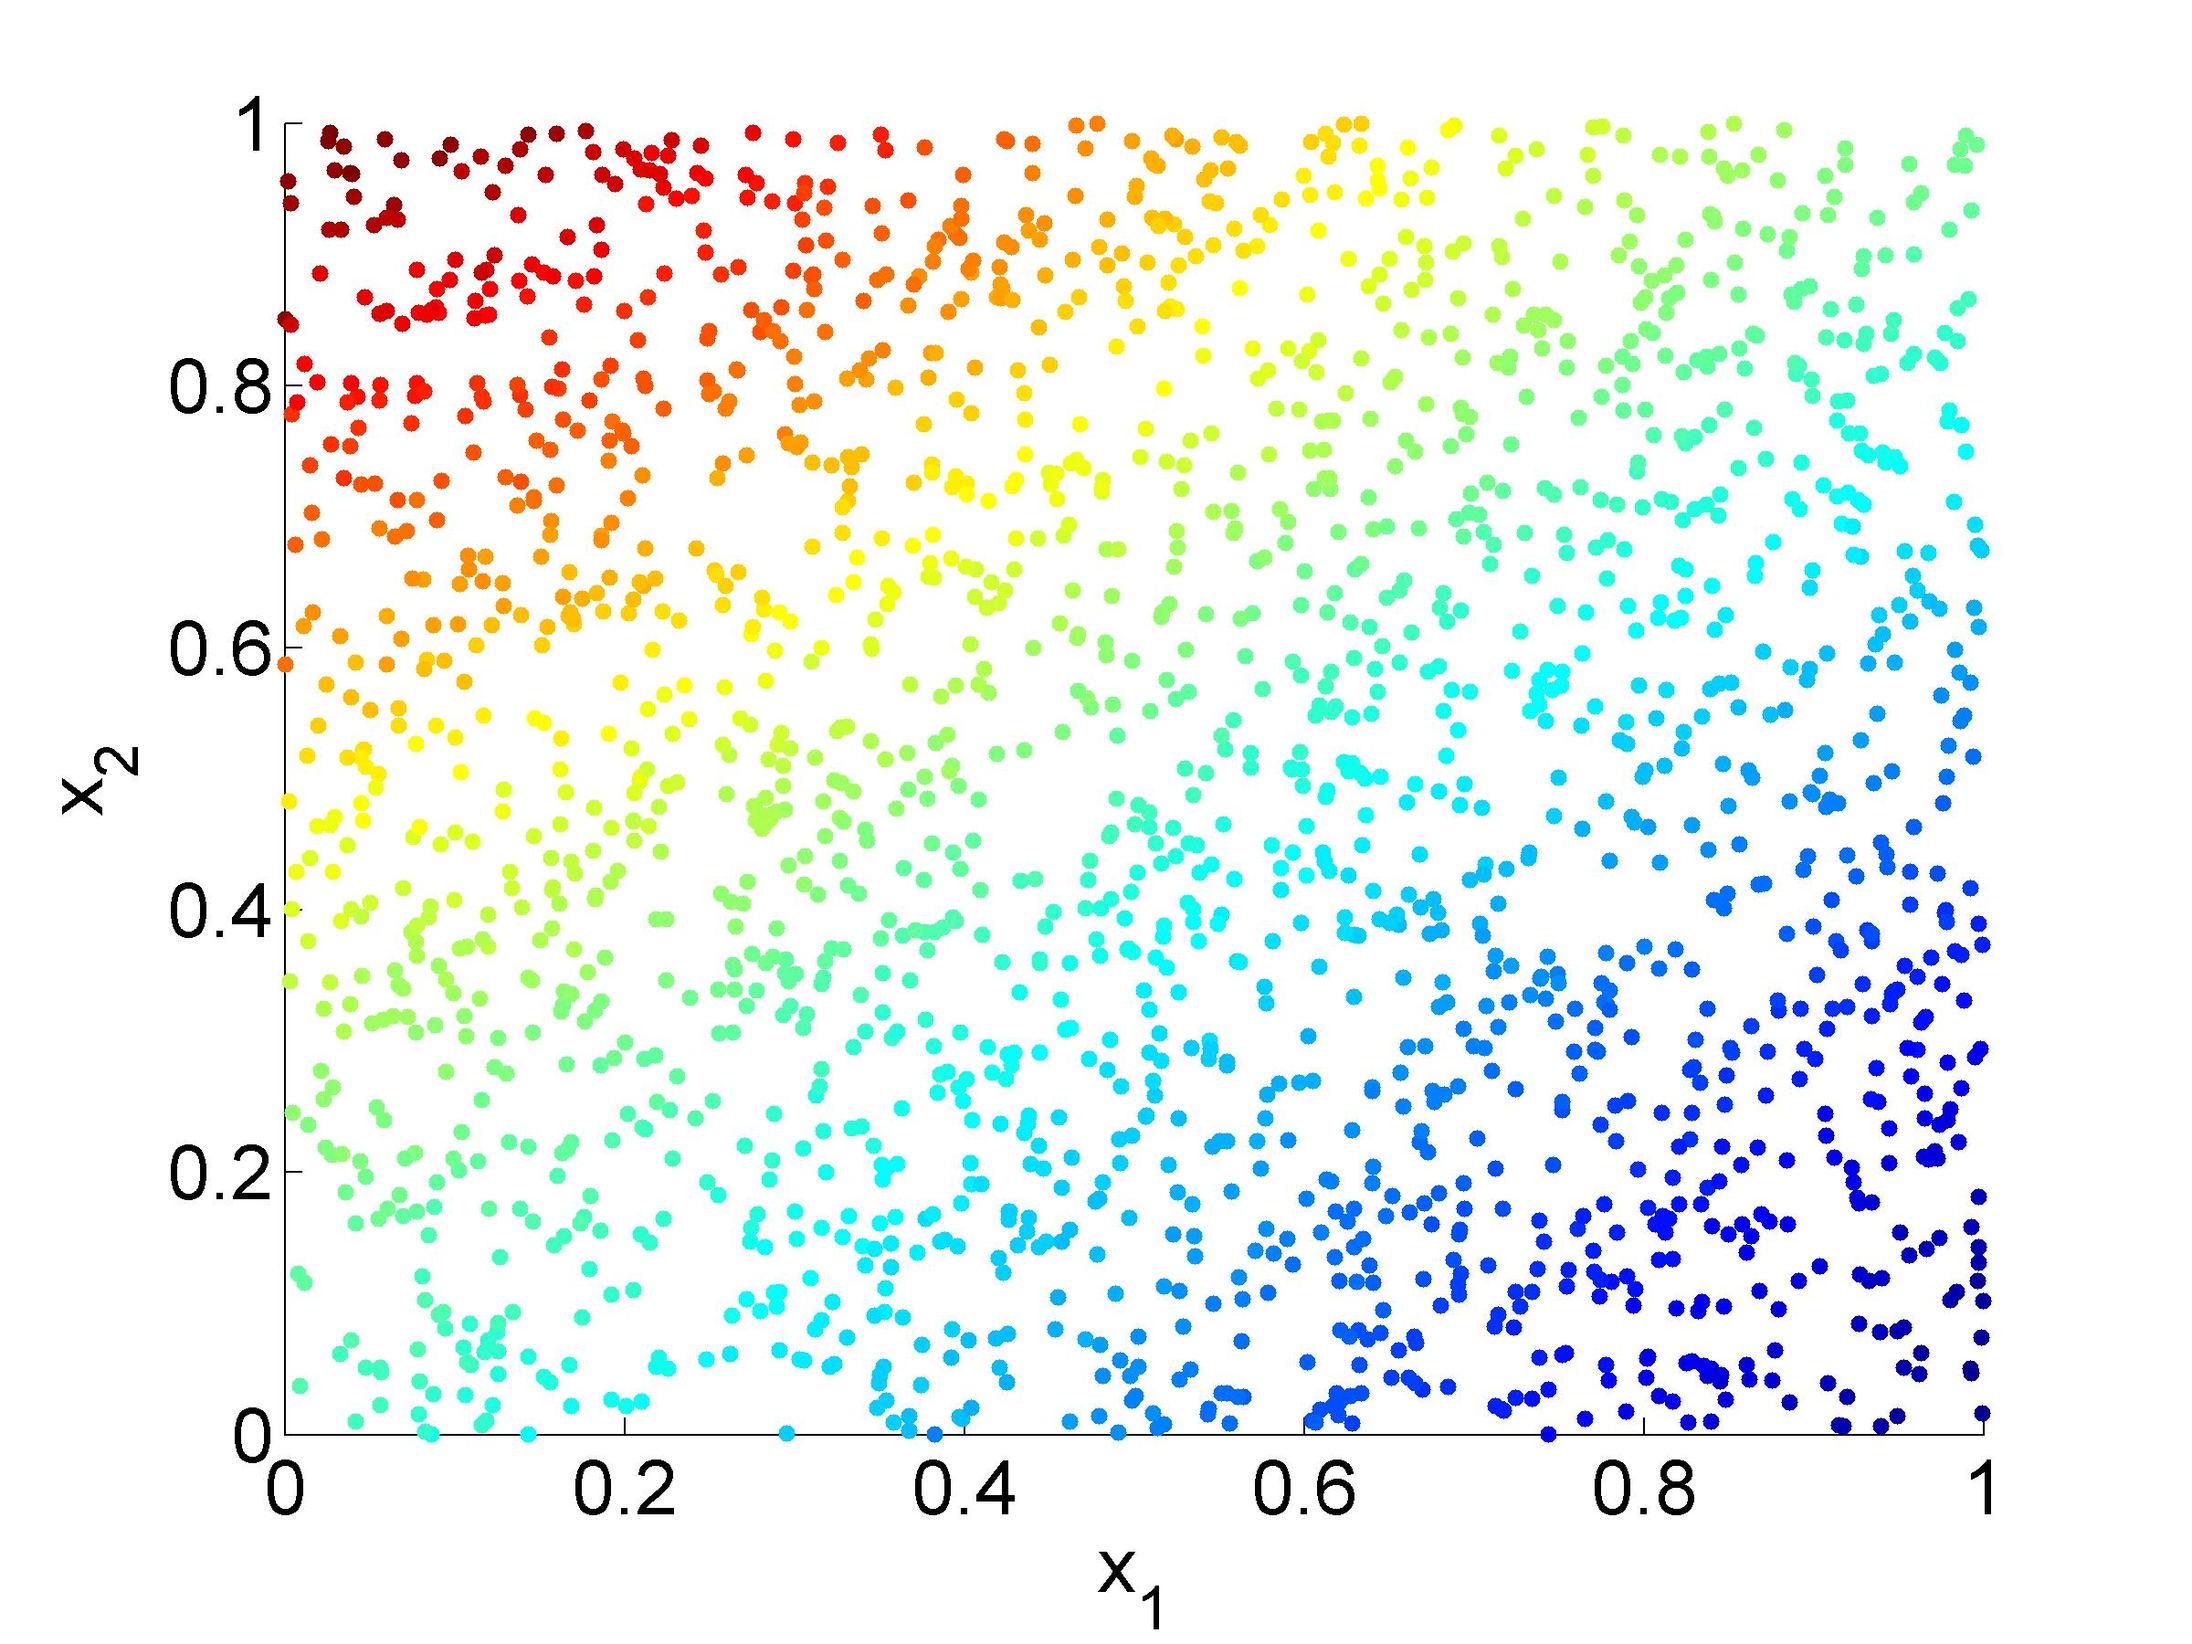
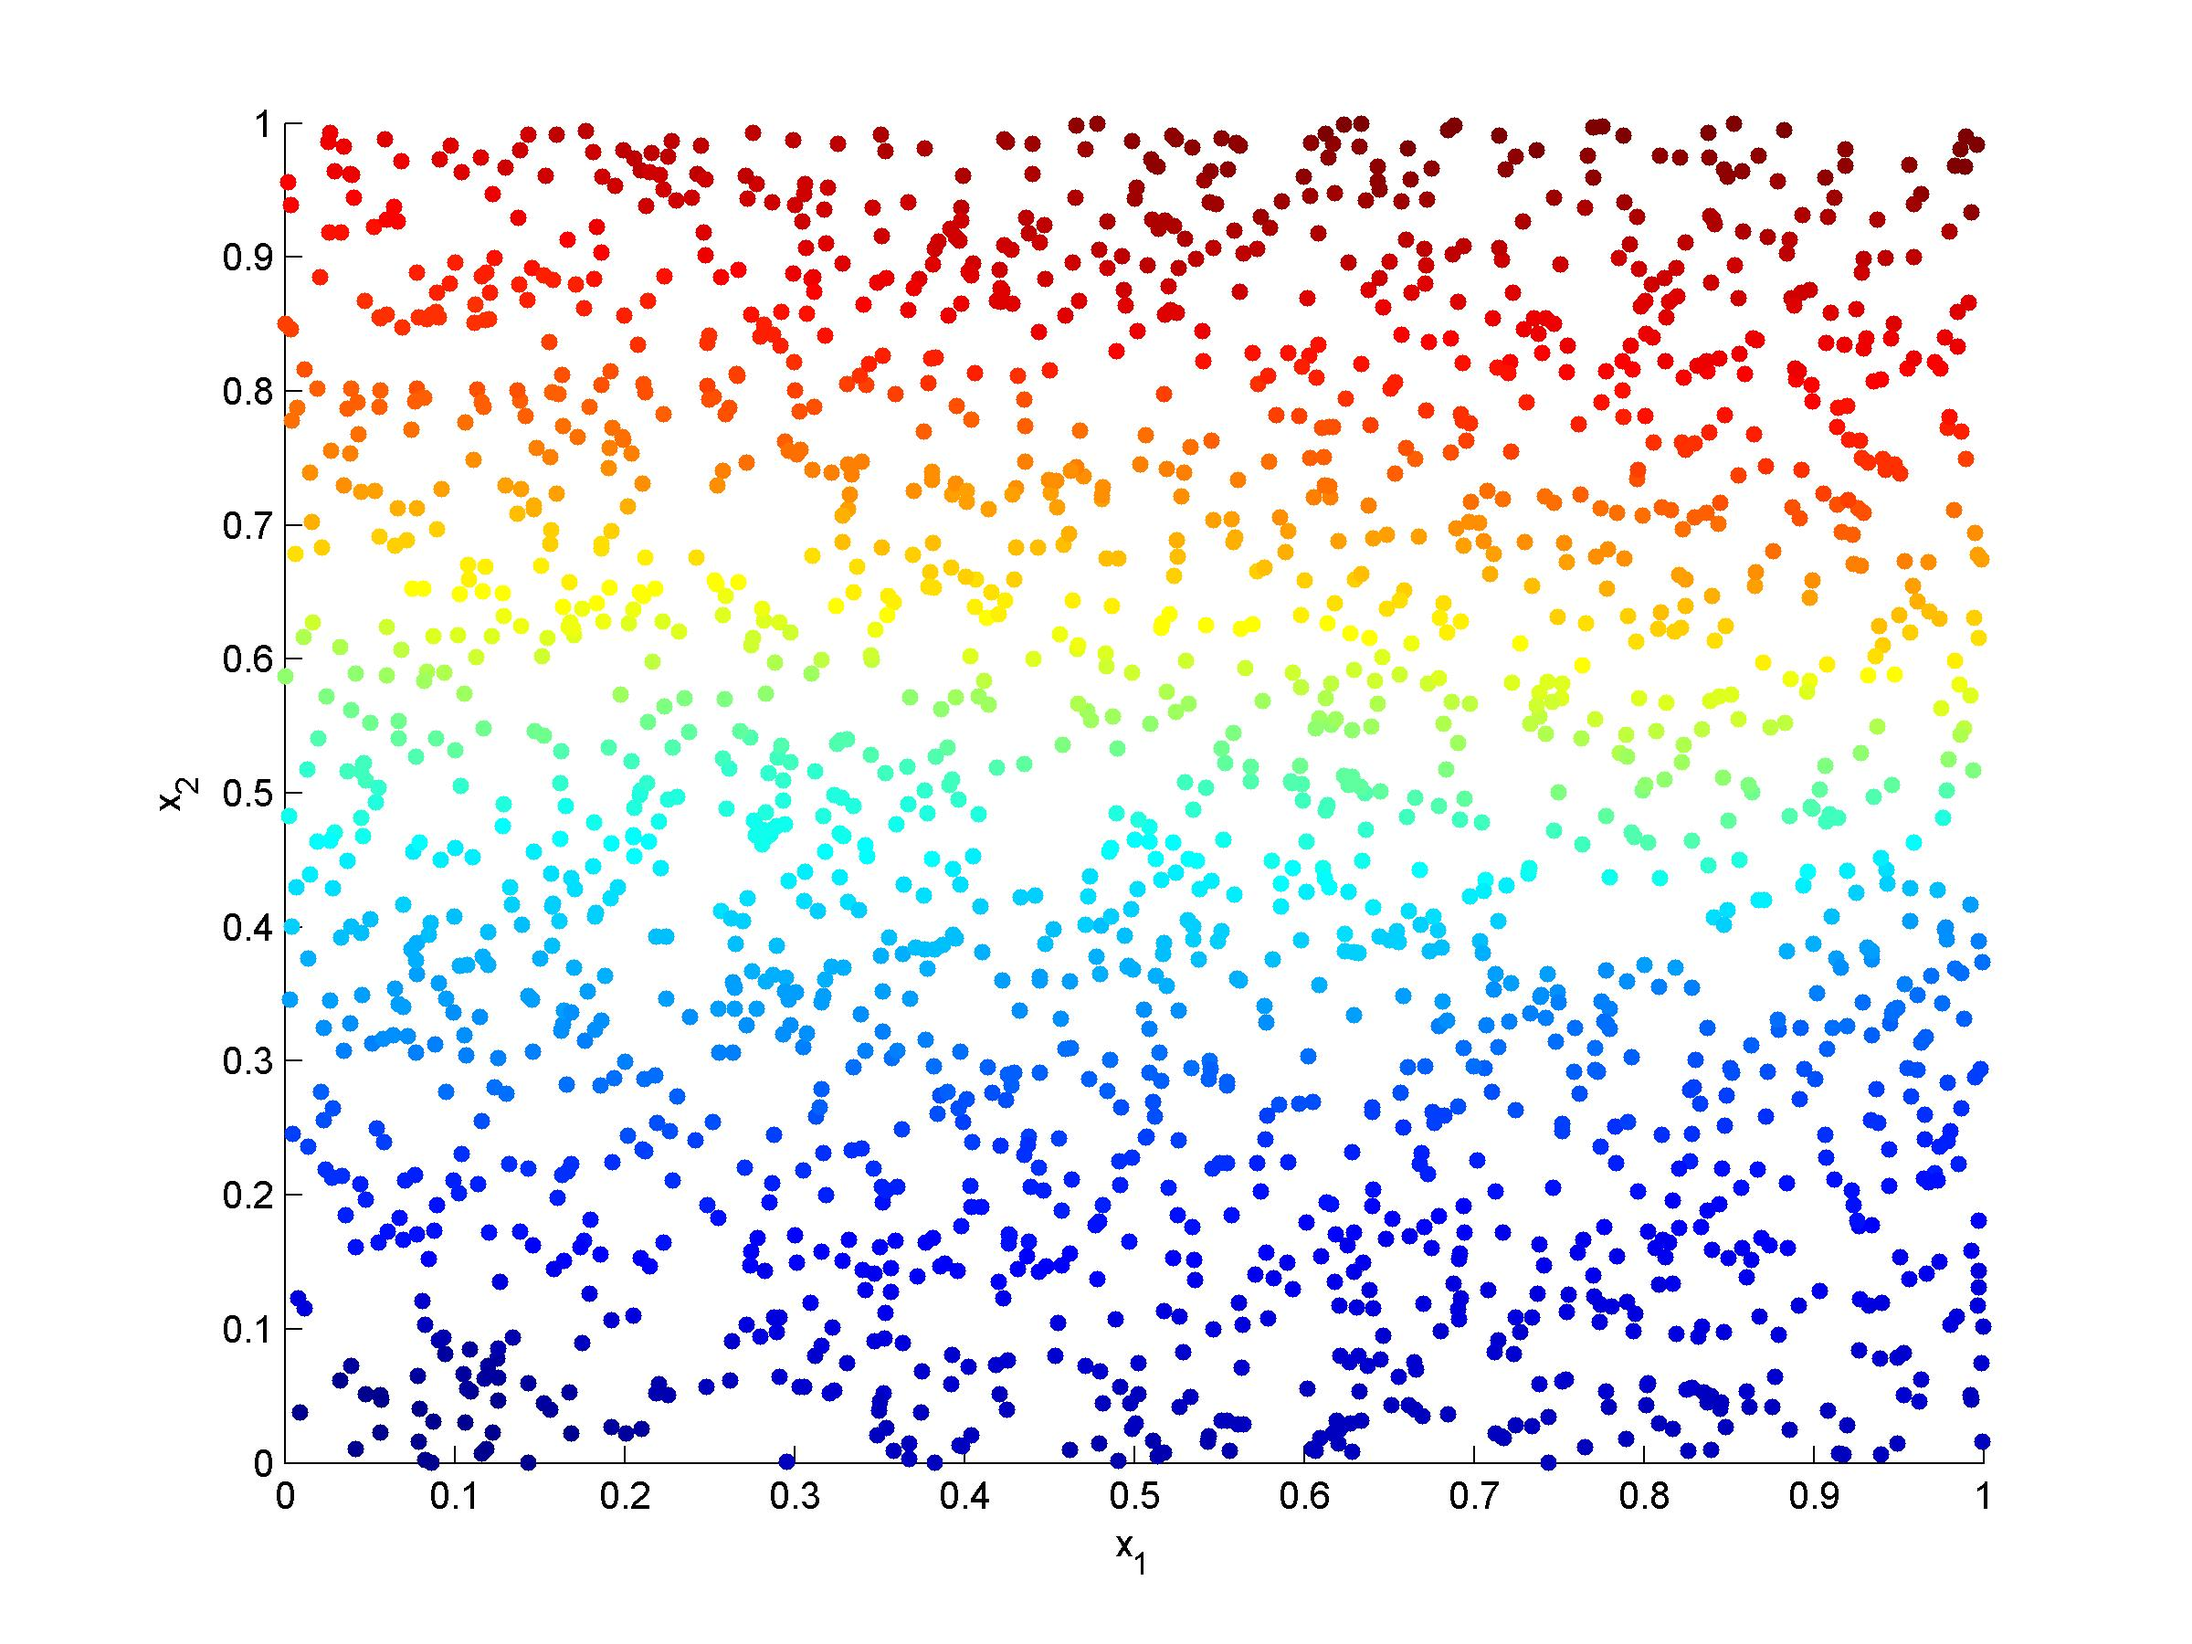
added Ronen edits to writeup

diff --git a/reducible_SDE/notes1.tex b/reducible_SDE/notes1.tex
@@ -8,7 +8,14 @@
 \begin{document}
 
 
-Goal: Want to examine the effects of the scale of the noise on NIV
+Goals: 
+\begin{itemize}
+\item Want to examine the effects of the scale of the noise on NIV
+\item Will look at systems with both underlying noise in the ``intrinsic'' variables, and added noise to the variables in the transformed/ ``ambient'' space
+\item The magnitude of the noise in the ambient space will determine the embedding we compute
+\item We expect to obtain DMAPS variables if the noise in the ambient space is large (we will only ``see'' the ambient space noise, and not the , and NIV if the noise in the ambient space is small
+\end{itemize}
+
 
 Assume we have the following underlying dynamical system (two--dimensional Brownian motion)
 \begin{eqnarray}
@@ -38,9 +45,10 @@ The results of doing DMAPS with the data $y_1, y_2$ are shown in in Figure \ref{
 Note that we do not recover the ``correct'' parameterization of the underlying variables $x_1, x_2$.
 
 \begin{figure}[htb]
-\includegraphics[width=0.5\textwidth]{xdata_colored_DMAPS1}
-\includegraphics[width=0.5\textwidth]{xdata_colored_DMAPS2}
-\caption{Data in ``true'' space ($x_1, x_2$), colored by the first (left) and second (right) nontrivial DMAPS component. The DMAPS embedding is computed from the data in the ``ambient'' space ($y_1, y_2$). Note that the parameterizationa we obtain are not the eigenfunctions that we expect for points sampled from the unit square.}
+\includegraphics[width=0.3\textwidth]{xdata_colored_DMAPS1}
+\includegraphics[width=0.3\textwidth]{xdata_colored_DMAPS2}
+\includegraphics[width=0.3\textwidth]{embedding_dmaps}
+\caption{Data in ``true'' space ($x_1, x_2$), colored by the first (left) and second (center) nontrivial DMAPS component. The DMAPS embedding is computed from the data in the ``ambient'' space ($y_1, y_2$). Note that the parameterizationa we obtain are not the eigenfunctions that we expect for points sampled from the unit square. (Right) Data plotted in first two (nontrivial) DMAPS variables.}
 \label{fig:xdata_dmaps}
 \end{figure}
 
@@ -51,9 +59,10 @@ we obtain the results in Figure \ref{fig:xdata_NIV}.
 Note that we now recover the ``correct'' variables.
 
 \begin{figure}[htb]
-\includegraphics[width=0.5\textwidth]{xdata_colored_NIV1}
-\includegraphics[width=0.5\textwidth]{xdata_colored_NIV2}
-\caption{Data in ``true'' space ($x_1, x_2$), colored by the first (left) and second (right) nontrivial NIV. The NIV embedding is computed from the data in the ambient space ($y_1, y_2$), with clouds around the points have standard deviation $1e-3$. Note that the parameterizations we obtain are the eigenfunctions that we expect for points sampled from the unit square.}
+\includegraphics[width=0.3\textwidth]{xdata_colored_NIV1}
+\includegraphics[width=0.3\textwidth]{xdata_colored_NIV2}
+\includegraphics[width=0.3\textwidth]{embedding_NIV}
+\caption{Data in ``true'' space ($x_1, x_2$), colored by the first (left) and second (center) nontrivial NIV. The NIV embedding is computed from the data in the ambient space ($y_1, y_2$), with time window $\Delta t = 0.01$. Note that the parameterizations we obtain are the eigenfunctions that we expect for points sampled from the unit square. (Right) Data plotted in first two (nontrivial) NIV.}
 \label{fig:xdata_NIV}
 \end{figure}
 
@@ -68,20 +77,30 @@ z_3 & = & \xi_3
 where $\xi_1, \xi_2, \xi_3 \sim \mathcal{N}(0, \sigma^2)$
 
 If $\sigma = 0.01$ (so the added noise is much smaller than the noise in the original clouds), we obtain a parameterization shown in Figure \ref{fig:xdata_NIV_noise1} using NIV.
+%
+When we do NIV, the ``ellipses'' we see are a combination of the original noises in the intrinsic variables and the noise in the ambient space.
+%
+Because the noise in the ambient space is significantly smaller than the noise in the original intrinsic variable space, we can still ``see'' the directions of the intrinsic variable noises in the ellipses, and therefore uncover the intrinsic variables.
 
 \begin{figure}[htb]
-\includegraphics[width=0.5\textwidth]{xdata_noise1_colored_NIV1}
-\includegraphics[width=0.5\textwidth]{xdata_noise1_colored_NIV2}
-\caption{Data in ``true'' space ($x_1, x_2$), colored by the first (left) and second (right) nontrivial NIV. The NIV embedding is computed from the data in the ambient space with added noise ($z_1, z_2$, with $\sigma = 0.01$). Note that the parameterizations we obtain are the eigenfunctions that we expect for points sampled from the unit square.}
+\includegraphics[width=0.3\textwidth]{xdata_noise1_colored_NIV1}
+\includegraphics[width=0.3\textwidth]{xdata_noise1_colored_NIV2}
+\includegraphics[width=0.3\textwidth]{embedding_noise1}
+\caption{Data in ``true'' space ($x_1, x_2$), colored by the first (left) and second (center) nontrivial NIV. The NIV embedding is computed from the data in the ambient space with added noise ($z_1, z_2$, with $\sigma = 0.01$). Note that the parameterizations we obtain are the eigenfunctions that we expect for points sampled from the unit square. (right) Data plotted in first two (nontrivial) NIV. We (effectively) recover the unit square, i.e., the domain of the intrinsic variables. }
 \label{fig:xdata_NIV_noise1}
 \end{figure}
 
 If $\sigma = 100$ (so the added noise is much larger than the noise in the original clouds), we obtain a parameterization shown in Figure \ref{fig:xdata_NIV_noise2} using NIV.
+%
+Now, the ellipses are a combination of the intrinsic varibale noise, and the ambient space noise, but the ambient space noise is {\em much} larger. 
+%
+Therefore, NIV only collapses the ambient space noise (not the intrinsic variable noise), and so we get something like the DMAPS coordinates, rather than the NIV. 
 
 \begin{figure}[htb]
-\includegraphics[width=0.5\textwidth]{xdata_noise2_colored_NIV1}
-\includegraphics[width=0.5\textwidth]{xdata_noise2_colored_NIV2}
-\caption{Data in ``true'' space ($x_1, x_2$), colored by the first (left) and second (right) nontrivial NIV. The NIV embedding is computed from the data in the ambient space with added noise ($z_1, z_2$, with $\sigma = 100$). Note that the parameterizations we obtain are not the eigenfunctions that we expect for points sampled from the unit square, but are now similar to the parameterizations obtained from DMAPS shown in Figure \ref{fig:xdata_dmaps}.}
+\includegraphics[width=0.3\textwidth]{xdata_noise2_colored_NIV1}
+\includegraphics[width=0.3\textwidth]{xdata_noise2_colored_NIV2}
+\includegraphics[width=0.3\textwidth]{embedding_noise2}
+\caption{Data in ``true'' space ($x_1, x_2$), colored by the first (left) and second (center) nontrivial NIV. The NIV embedding is computed from the data in the ambient space with added noise ($z_1, z_2$, with $\sigma = 100$). Note that the parameterizations we obtain are not the eigenfunctions that we expect for points sampled from the unit square, but are now similar to the parameterizations obtained from DMAPS shown in Figure \ref{fig:xdata_dmaps}. (right) Data plotted in first two (nontrivial) NIV. We do {\em not} recover the unit square.}
 \label{fig:xdata_NIV_noise2}
 \end{figure}
 

diff --git a/reducible_SDE/test_Amit_NLICA_example.m b/reducible_SDE/test_Amit_NLICA_example.m
@@ -21,7 +21,7 @@ dim = 2;
 Nc = 200;
 
 % dt for clouds
-dt1 = 0.001;
+dt1 = 0.01;
 
 %% do simulations
 
@@ -46,7 +46,7 @@ print('ydata', fmt, res)
 
 %% calculate clouds
 
-xclouds = dt1 * randn(Nc, dim, N);
+xclouds = sqrt(dt1) * randn(Nc, dim, N);
 for i=1:N
     xclouds(:,:,i) = repmat(x(i,:), Nc, 1) + xclouds(:,:,i);
 end
@@ -62,6 +62,7 @@ end
 
 %% calculate inverse covariances
 [inv_c, ~, ranks] = covariances2(yclouds, dim);
+inv_c = inv_c * dt1;
 
 %% NIV
 if size(y,1) > 4000
@@ -69,7 +70,10 @@ if size(y,1) > 4000
     return
 end
 neigs = 10;
-[V, D] = NIV(y, inv_c, 0, neigs, 0);
+eps = 2*0.005;
+%eps = 0;
+[V, D, ~] = NIV(y, inv_c, eps, neigs, 0);
+V = decouple_dmaps(V);
 
 figure;
 scatter(x(:,1),x(:,2),200,V(:,2),'.')
@@ -83,9 +87,20 @@ xlabel('x_1')
 ylabel('x_2')
 print('xdata_colored_NIV2', fmt, res)
 
+figure;
+plot(V(:,2),V(:,3),'.')
+xlabel('\phi_2')
+ylabel('\phi_3')
+print('embedding_niv', fmt, res)
+
+figure;
+bar(-2*log(diag(D))/(pi^2 * eps/2))
+
+ 
 %% dmaps
 W = squareform(pdist(y)).^2;
 [V, D] = dmaps(W, median(W(:)), neigs);
+V = decouple_dmaps(V);
 
 figure;
 scatter(x(:,1),x(:,2),200,V(:,2),'.')
@@ -94,6 +109,15 @@ print('xdata_colored_DMAPS1', fmt, res)
 figure;
 scatter(x(:,1),x(:,2),200,V(:,3),'.')
 print('xdata_colored_DMAPS2', fmt, res)
+
+figure;
+plot(V(:,2),V(:,3),'.')
+xlabel('\phi_2')
+ylabel('\phi_3')
+print('embedding_dmaps', fmt, res)
+
+figure;
+bar(-2*log(diag(D))/(pi^2 * eps/2))
 
 %% do simulation with noise
 dim = 3;
@@ -109,13 +133,16 @@ end
 
 % calculate inverse covariances
 [inv_c, ~, ranks] = covariances2(zclouds, dim);
+inv_c = inv_c * dt1;
 
 % NIV
 if size(z,1) > 4000
     disp('Too much data; NIV will fail')
     return
 end
-[V, D] = NIV(z, inv_c, 0, neigs, 0);
+
+[V, D, ~] = NIV(z, inv_c, eps, neigs, 0);
+V = decouple_dmaps(V);
 
 figure;
 scatter(x(:,1),x(:,2),200,V(:,2),'.')
@@ -128,6 +155,16 @@ scatter(x(:,1),x(:,2),200,V(:,3),'.')
 xlabel('x_1')
 ylabel('x_2')
 print('xdata_noise1_colored_NIV2', fmt, res)
+
+figure;
+plot(V(:,2),V(:,3),'.')
+xlabel('\phi_2')
+ylabel('\phi_3')
+print('embedding_noise1', fmt, res)
+
+figure;
+bar(-2*log(diag(D))/(pi^2 * eps/2))
+
 
 %% do simulation with noise
 
@@ -142,13 +179,16 @@ end
 
 % calculate inverse covariances
 [inv_c, ~, ranks] = covariances2(zclouds, dim);
+inv_c = inv_c * dt1;
 
 % NIV
 if size(z,1) > 4000
     disp('Too much data; NIV will fail')
     return
 end
-[V, D] = NIV(z, inv_c, 0, neigs, 0);
+
+[V, D, ~] = NIV(z, inv_c, eps, neigs, 0);
+V = decouple_dmaps(V);
 
 figure;
 scatter(x(:,1),x(:,2),200,V(:,2),'.')
@@ -161,3 +201,13 @@ scatter(x(:,1),x(:,2),200,V(:,3),'.')
 xlabel('x_1')
 ylabel('x_2')
 print('xdata_noise2_colored_NIV2', fmt, res)
+
+figure;
+plot(V(:,2),V(:,3),'.')
+xlabel('\phi_2')
+ylabel('\phi_3')
+print('embedding_noise2', fmt, res)
+
+figure;
+bar(-2*log(diag(D))/(pi^2 * eps/2))
+

diff --git a/reducible_SDE/decouple_dmaps.m b/reducible_SDE/decouple_dmaps.m
@@ -1,0 +1,8 @@
+function V_new = decouple_dmaps(V)
+
+V_new = V;
+
+theta_psi = atan(0.5 * (V(:, 4).' * (V(:,2).*V(:,2) - V(:,3).*V(:,3)) ) / ( V(:,4).' * (V(:,2) .* V(:,3)))) / 2;
+V_new(:, 2) = V(:, 2) * cos(theta_psi) - V(:,3) * sin(theta_psi);
+V_new(:, 3) = V(:, 2) * sin(theta_psi) + V(:,3) * cos(theta_psi);
+
